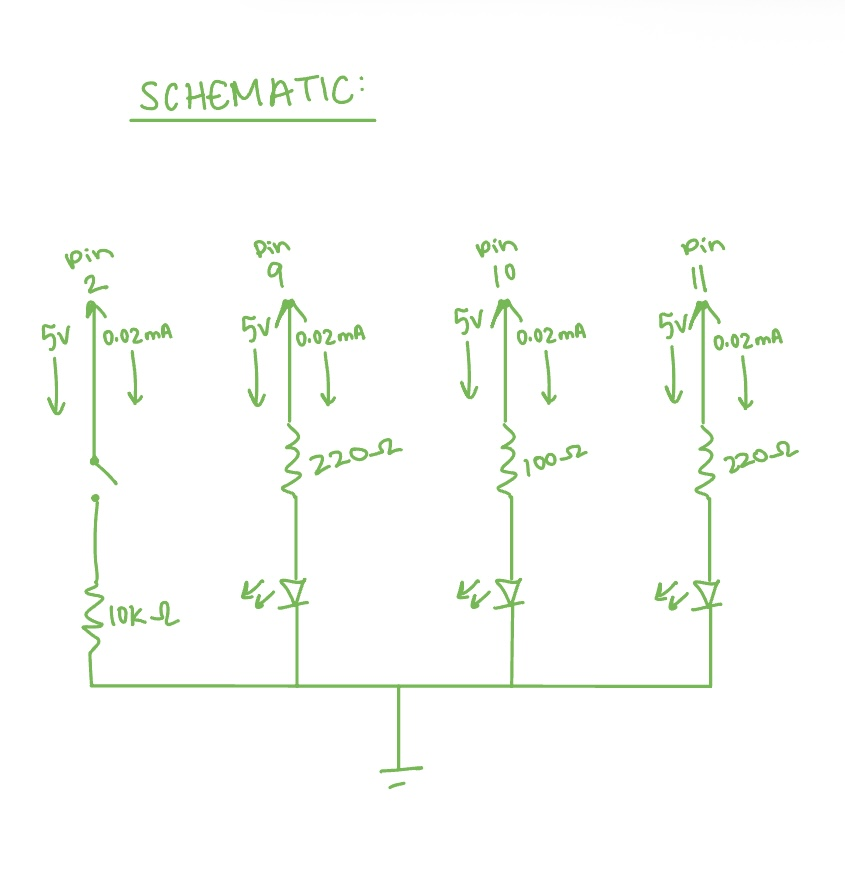
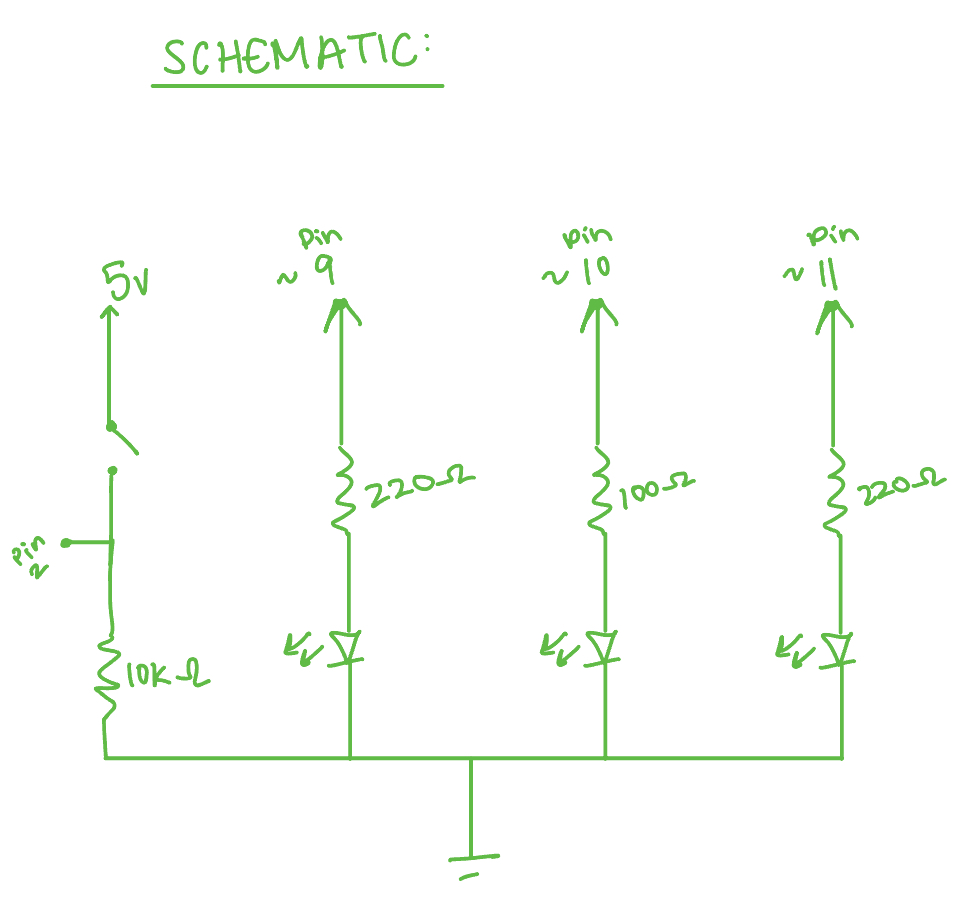
commit 6: add images of circuit for resub

Changed region(s): [[0.0, 0.2441, 0.9846, 0.9763], [0.1538, 0.0305, 0.4615, 0.1525]]

diff --git a/docs/a2.html b/docs/a2.html
@@ -11,7 +11,7 @@
   <body>
     <h1>Assignment 2: Fade!</h1>
     <div class="header">
-      <img src="operation2.gif" height="500"/>
+      <img src="operation2.gif" height="400"/><br/>
       <p>
         To the right you will see a gif of my operating circuit.
         Below, you will find the calculations for the resistors and the 
@@ -51,6 +51,12 @@
         I did not use any AI tools to complete this assignment. I referred to
         in-class slides and notes that I took on my own.
       </p>
+    </div>
+
+    <div class="header">
+      <h2>Top and Side Views:</h2>
+        <img src="topview2.jpeg"/>
+        <img src="sideview2.jpeg"/>
     </div>
 
     <div class="grid">
